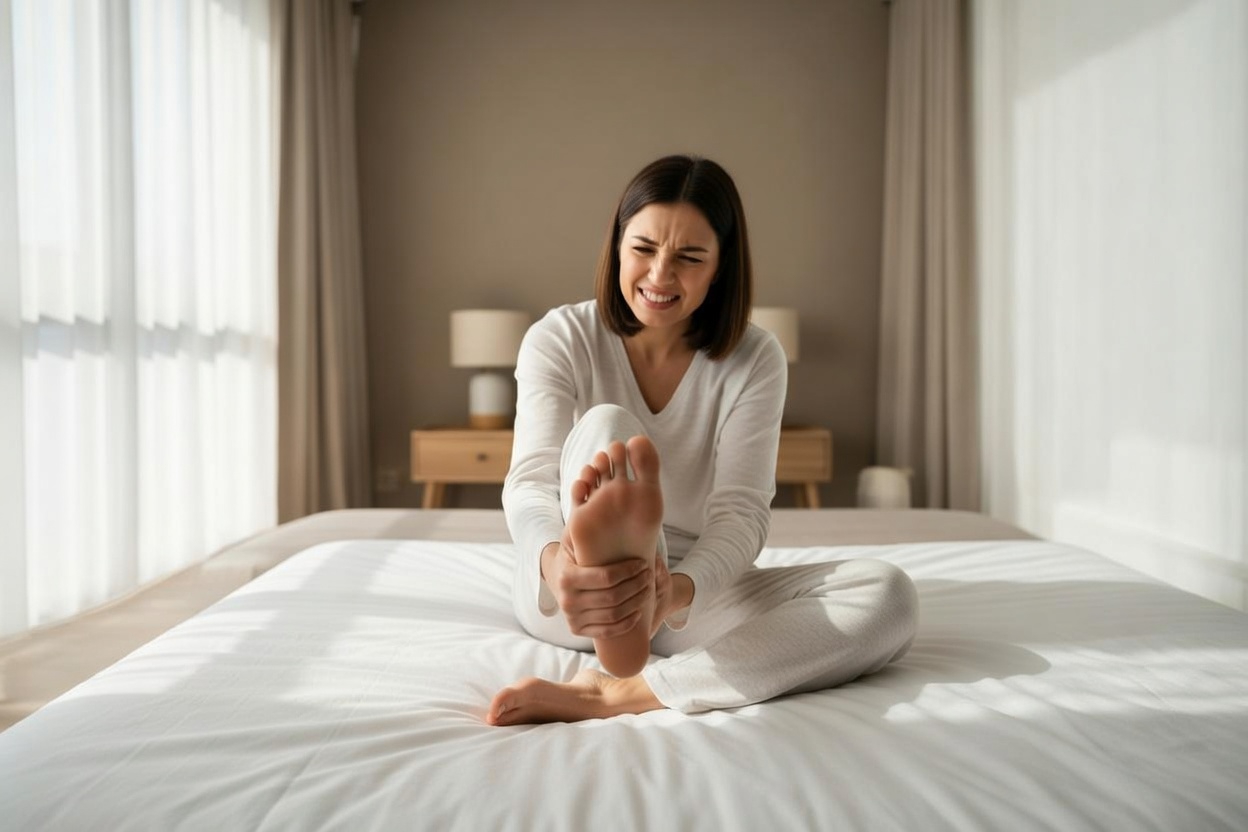
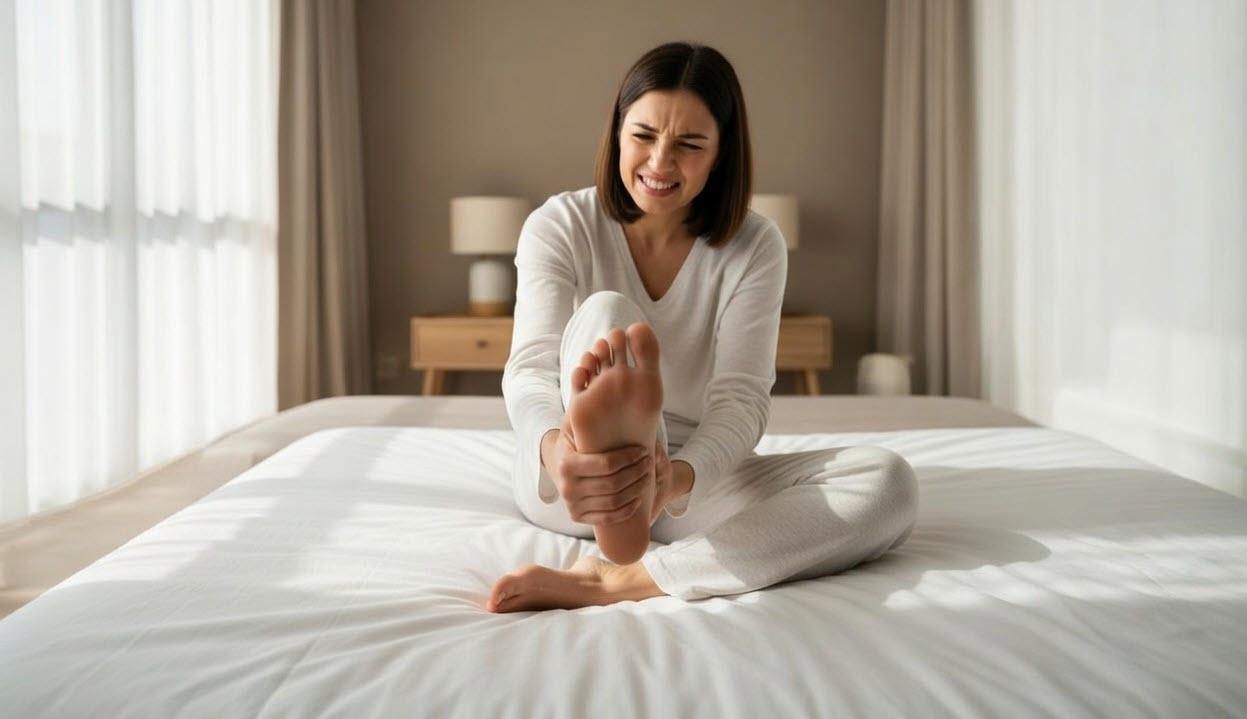
update: make hero image responsive (mobile vs desktop)

diff --git a/src/components/HeroSection.tsx b/src/components/HeroSection.tsx
@@ -4,7 +4,10 @@ const HeroSection = () => {
   return (
     <section className="relative pt-28 pb-8 md:pt-36 md:pb-12 overflow-hidden">
       <div className="absolute inset-0">
-        <img src="/new-top.png" alt="" className="w-full h-full object-cover" loading="eager" />
+        {/* Desktop Image */}
+        <img src="/photo_2026-03-25_13-59-21.jpg" alt="" className="hidden md:block w-full h-full object-cover" loading="eager" />
+        {/* Mobile Image */}
+        <img src="/new-top.png" alt="" className="block md:hidden w-full h-full object-cover" loading="eager" />
         <div className="absolute inset-0 bg-gradient-to-b from-background/85 via-background/70 to-background" />
       </div>
 
